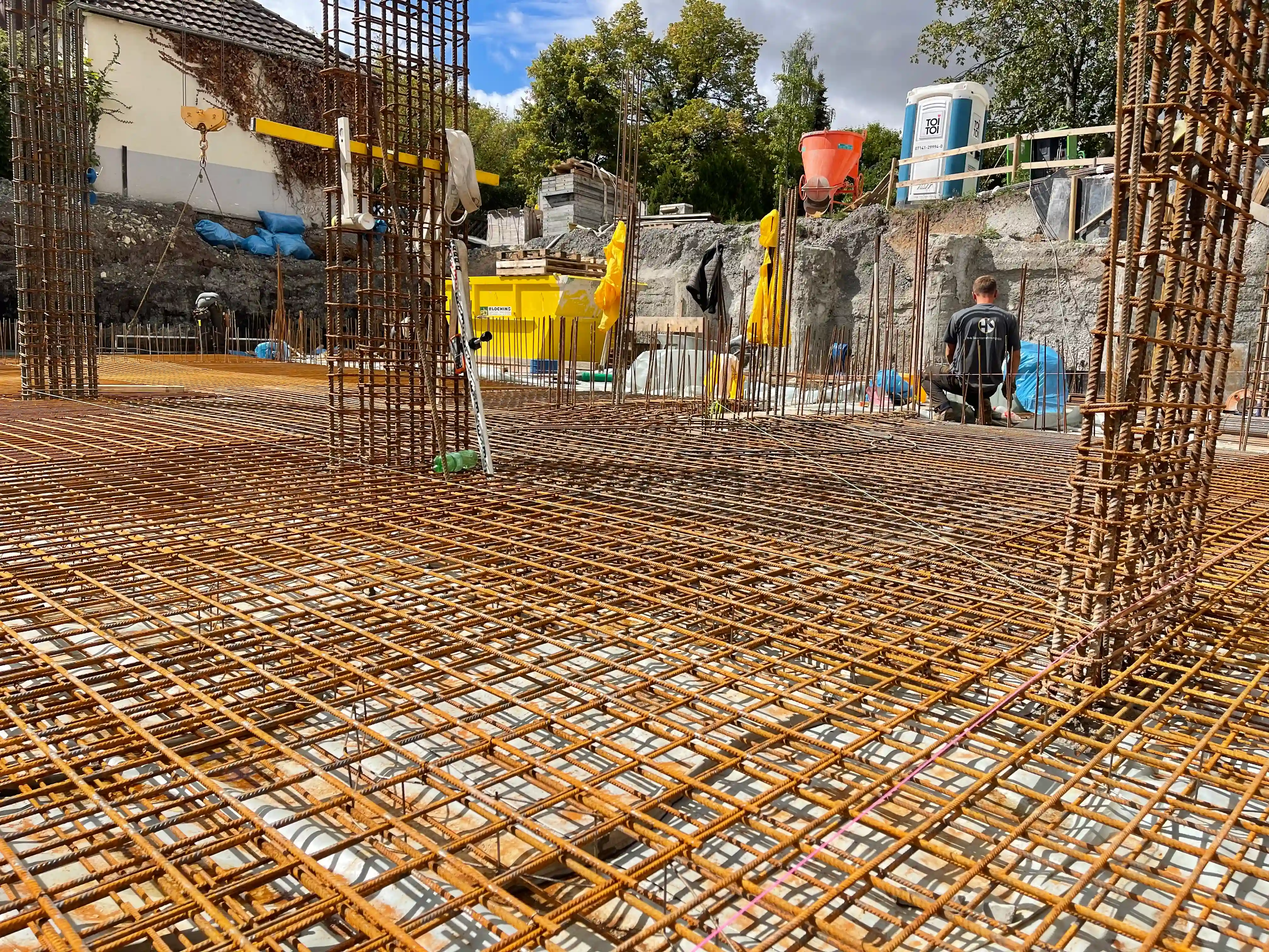
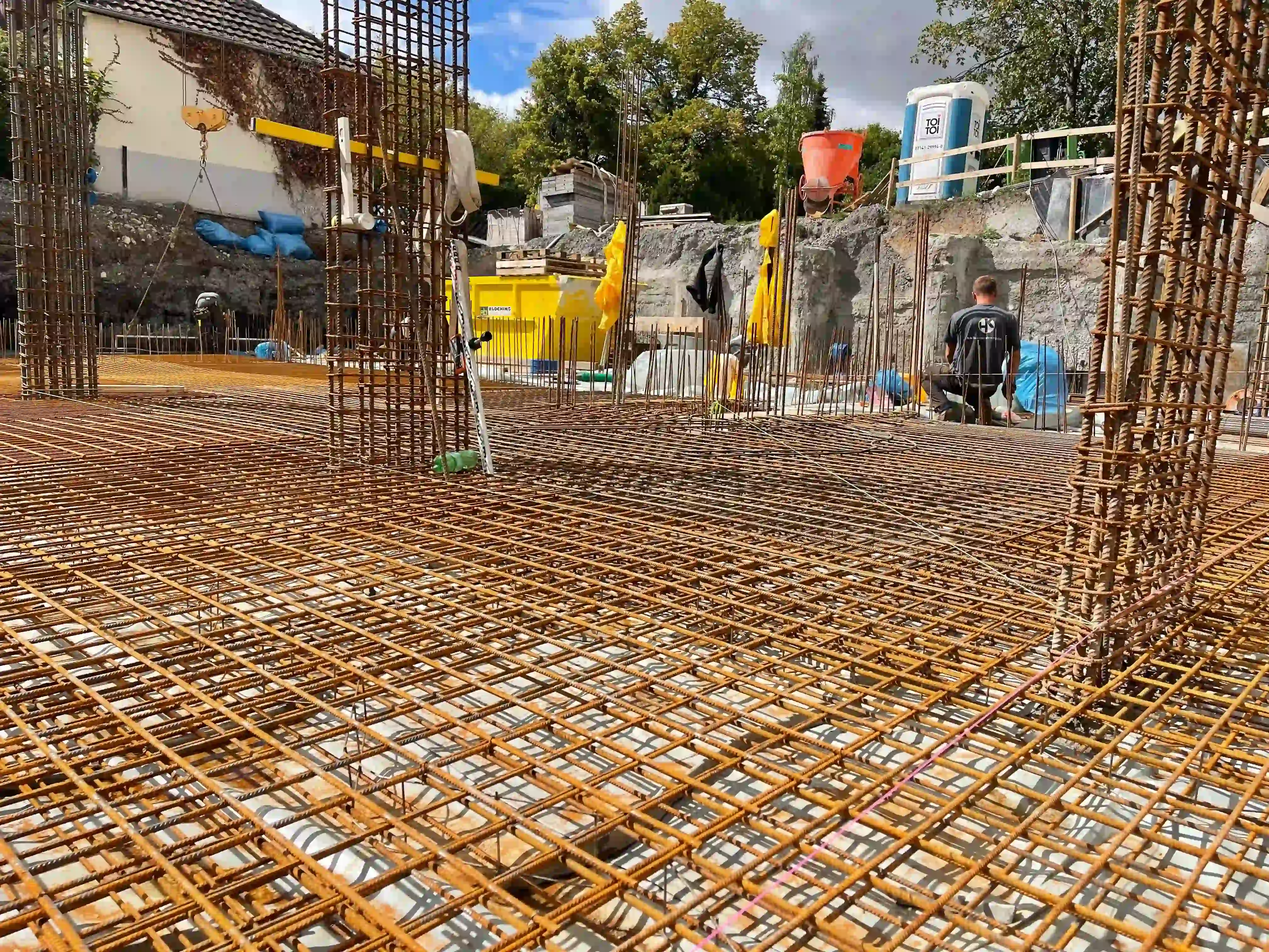
compressed images

diff --git a/Website/index.html b/Website/index.html
@@ -610,7 +610,7 @@
 
     <!-- Image Block -->
     <div class="h-full w-full" data-aos="fade-left" data-aos-delay="400">
-      <img src="images/warum-uns.png"
+      <img src="images/warum-uns.webp"
            alt="HK Bau Mitarbeiter mit Plan"
            class="w-full h-full object-cover" loading="lazy" />
     </div>
@@ -784,7 +784,7 @@
 
 <!-- Lörrach 1 -->
 <div class="relative w-[26rem] h-[17rem] snap-center overflow-hidden rounded-lg">
-  <img src="images/projekten/16.Neubau Villa mit Pool in Lörrach.jpeg" alt="Neubau Villa mit Pool in Lörrach" class="carousel-image w-full h-full object-cover rounded-lg shadow transition-transform duration-700"  loading="lazy" />
+  <img src="images/projekten/16.Neubau Villa mit Pool in Lörrach.webp" alt="Neubau Villa mit Pool in Lörrach" class="carousel-image w-full h-full object-cover rounded-lg shadow transition-transform duration-700"  loading="lazy" />
   <div class="carousel-caption absolute bottom-0 left-0 right-0 w-full bg-black/80 backdrop-blur-sm text-white text-base sm:text-lg text-center p-2">
     Neubau Villa mit Pool in Lörrach
   </div>
@@ -792,7 +792,7 @@
 
 <!-- Lörrach 2 -->
 <div class="relative w-[26rem] h-[17rem] snap-center overflow-hidden rounded-lg">
-  <img src="images/projekten/17.Neubau Villa mit Pool in Lörrach.jpeg" alt="Neubau Villa mit Pool in Lörrach" class="carousel-image w-full h-full object-cover rounded-lg shadow transition-transform duration-700"  loading="lazy" />
+  <img src="images/projekten/17.Neubau Villa mit Pool in Lörrach.webp" alt="Neubau Villa mit Pool in Lörrach" class="carousel-image w-full h-full object-cover rounded-lg shadow transition-transform duration-700"  loading="lazy" />
   <div class="carousel-caption absolute bottom-0 left-0 right-0 w-full bg-black/80 backdrop-blur-sm text-white text-base sm:text-lg text-center p-2">
     Neubau Villa mit Pool in Lörrach
   </div>

diff --git a/Website/leistungen.html b/Website/leistungen.html
@@ -502,7 +502,7 @@
   <a href="leistungen.html#abbruch-details" class="block group" aria-label="Abbruch und Rückbau Referenzen">
 
     <div id="abbruch-details" class="grid md:grid-cols-2 gap-10 items-center bg-white p-10 rounded-3xl shadow-xl transition duration-300 odd:bg-light-bg" data-aos="fade-up" data-aos-delay="150">
-      <img src="images/abbruch.jpg" alt="Abbruch und Rückbau" loading="lazy" class="rounded-xl w-full h-72 object-cover shadow-lg group-hover:scale-[1.02] transition duration-300" onerror="this.onerror=null;this.src='https://via.placeholder.com/700x480?text=Abbruch+Bild';" />
+      <img src="images/abbruch.webp" alt="Abbruch und Rückbau" loading="lazy" class="rounded-xl w-full h-72 object-cover shadow-lg group-hover:scale-[1.02] transition duration-300" onerror="this.onerror=null;this.src='https://via.placeholder.com/700x480?text=Abbruch+Bild';" />
       <div>
         <h3 class="text-3xl lg:text-4xl font-bold mb-4 text-secondary-color flex items-center gap-2">Abbruch & Rückbau – Sicher, kontrolliert, effizient</h3>
         <p class="text-lg text-dark-gray leading-relaxed mb-6">Vom selektiven Rückbau bis zum vollständigen Abbruch – wir übernehmen <strong>Abbrucharbeiten jeder Größenordnung</strong> unter Berücksichtigung aller Umwelt- und Sicherheitsstandards.</p>
